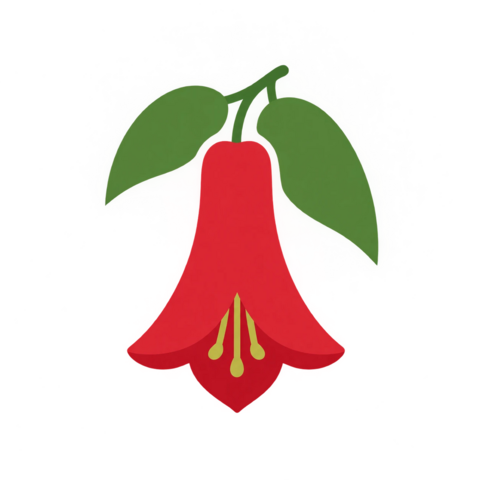
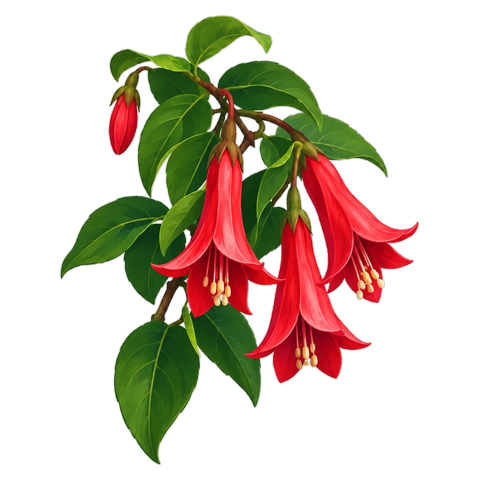
Agregar ilustraciones reales para Bailarinas, Ave del paraíso y Pensamientos, renovar Copihue
Mismo mecanismo de Tema.imagenUrl ya usado para el resto de la
colección floral. Copihue reemplaza su ilustración anterior (más
plana) por una versión nueva, más detallada, del mismo diseño.

Con esto solo Rosa palo (la paleta predeterminada) sigue usando el
ícono SVG generado por FlorIconoComponent — las otras 12 ya tienen
ilustración propia.

Verificado en el emulador: selector de paletas completo en
Configuración, modo claro y oscuro.

Claude-Session: https://claude.ai/code/session_01AcotYUYfaWZhimpQfjGEe4

diff --git a/src/app/core/temas.ts b/src/app/core/temas.ts
@@ -43,13 +43,13 @@ export interface Tema {
 export const TEMAS: Tema[] = [
   { id: 'rosa-palo', nombre: 'Rosa palo', primario: '#A85764', secundario: '#7C9473', fondo: '#FAEFF1', forma: 'rosa' },
   { id: 'lilas', nombre: 'Lilas', primario: '#A87FBD', secundario: '#8A9B6E', fondo: '#F7EFFA', forma: 'racimo-pequeno', imagenUrl: 'assets/flores/lilas.png' },
-  { id: 'pensamientos', nombre: 'Pensamientos', primario: '#5E3597', secundario: '#C9A86E', fondo: '#F4EFFA', forma: 'pensamiento' },
+  { id: 'pensamientos', nombre: 'Pensamientos', primario: '#5E3597', secundario: '#C9A86E', fondo: '#F4EFFA', forma: 'pensamiento', imagenUrl: 'assets/flores/pensamientos.png' },
   { id: 'hibisco', nombre: 'Hibisco', primario: '#D62F29', secundario: '#D9A441', fondo: '#FAF0EF', forma: 'hibisco', imagenUrl: 'assets/flores/hibisco.png' },
   { id: 'calendula', nombre: 'Caléndula', primario: '#DB8F24', secundario: '#8B5E34', fondo: '#FCF6EE', forma: 'calendula', imagenUrl: 'assets/flores/calendula.png' },
   { id: 'girasol', nombre: 'Girasol', primario: '#D8B731', secundario: '#6B4423', fondo: '#FCF9EE', forma: 'girasol', imagenUrl: 'assets/flores/girasol.png' },
   { id: 'lirios', nombre: 'Lirios', primario: '#C79775', secundario: '#7FA89A', fondo: '#FCF4EE', forma: 'lirio', imagenUrl: 'assets/flores/lirios.png' },
-  { id: 'ave-del-paraiso', nombre: 'Ave del paraíso', primario: '#D66329', secundario: '#4A4E8C', fondo: '#FCF2EE', forma: 'ave-del-paraiso' },
-  { id: 'bailarinas', nombre: 'Bailarinas', primario: '#CE55A5', secundario: '#6FA36B', fondo: '#FAEFF7', forma: 'bailarina' },
+  { id: 'ave-del-paraiso', nombre: 'Ave del paraíso', primario: '#D66329', secundario: '#4A4E8C', fondo: '#FCF2EE', forma: 'ave-del-paraiso', imagenUrl: 'assets/flores/ave-del-paraiso.png' },
+  { id: 'bailarinas', nombre: 'Bailarinas', primario: '#CE55A5', secundario: '#6FA36B', fondo: '#FAEFF7', forma: 'bailarina', imagenUrl: 'assets/flores/bailarinas.png' },
   { id: 'copihue', nombre: 'Copihue', primario: '#7C1D25', secundario: '#4A6B4F', fondo: '#FAEFF0', forma: 'copihue', imagenUrl: 'assets/flores/copihue.png' },
   { id: 'rosas', nombre: 'Rosas', primario: '#B53051', secundario: '#5B7A4F', fondo: '#FAEFF2', forma: 'rosa', imagenUrl: 'assets/flores/rosas.png' },
   { id: 'hortensia', nombre: 'Hortensia', primario: '#4B5CA0', secundario: '#C98A94', fondo: '#EFF2FA', forma: 'racimo-grande', imagenUrl: 'assets/flores/hortensia.png' },
